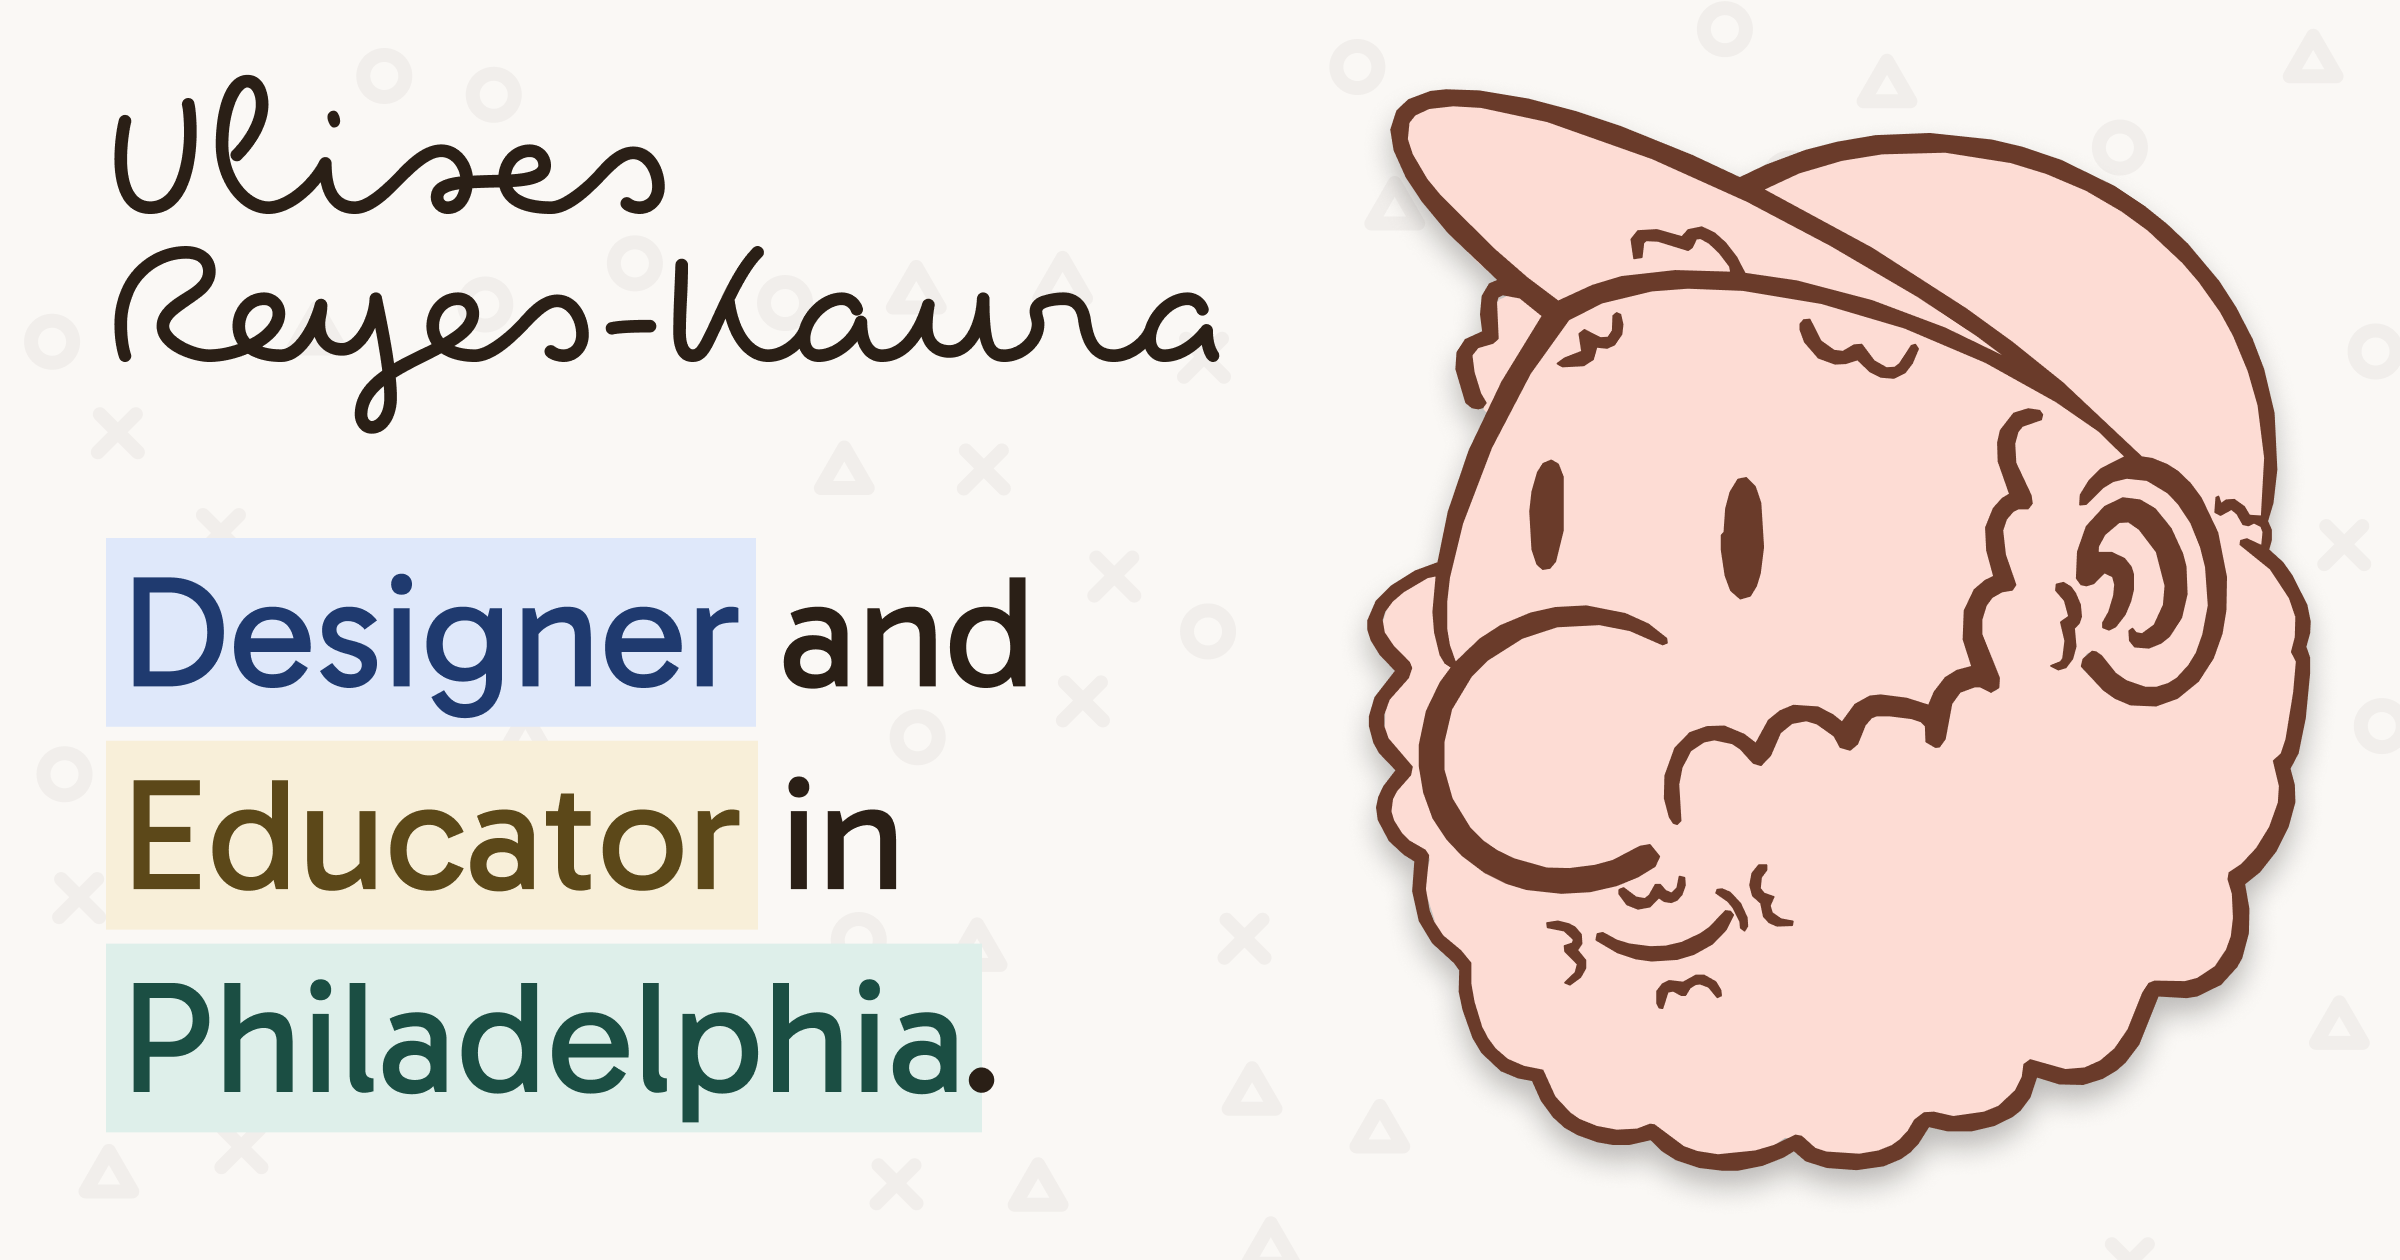
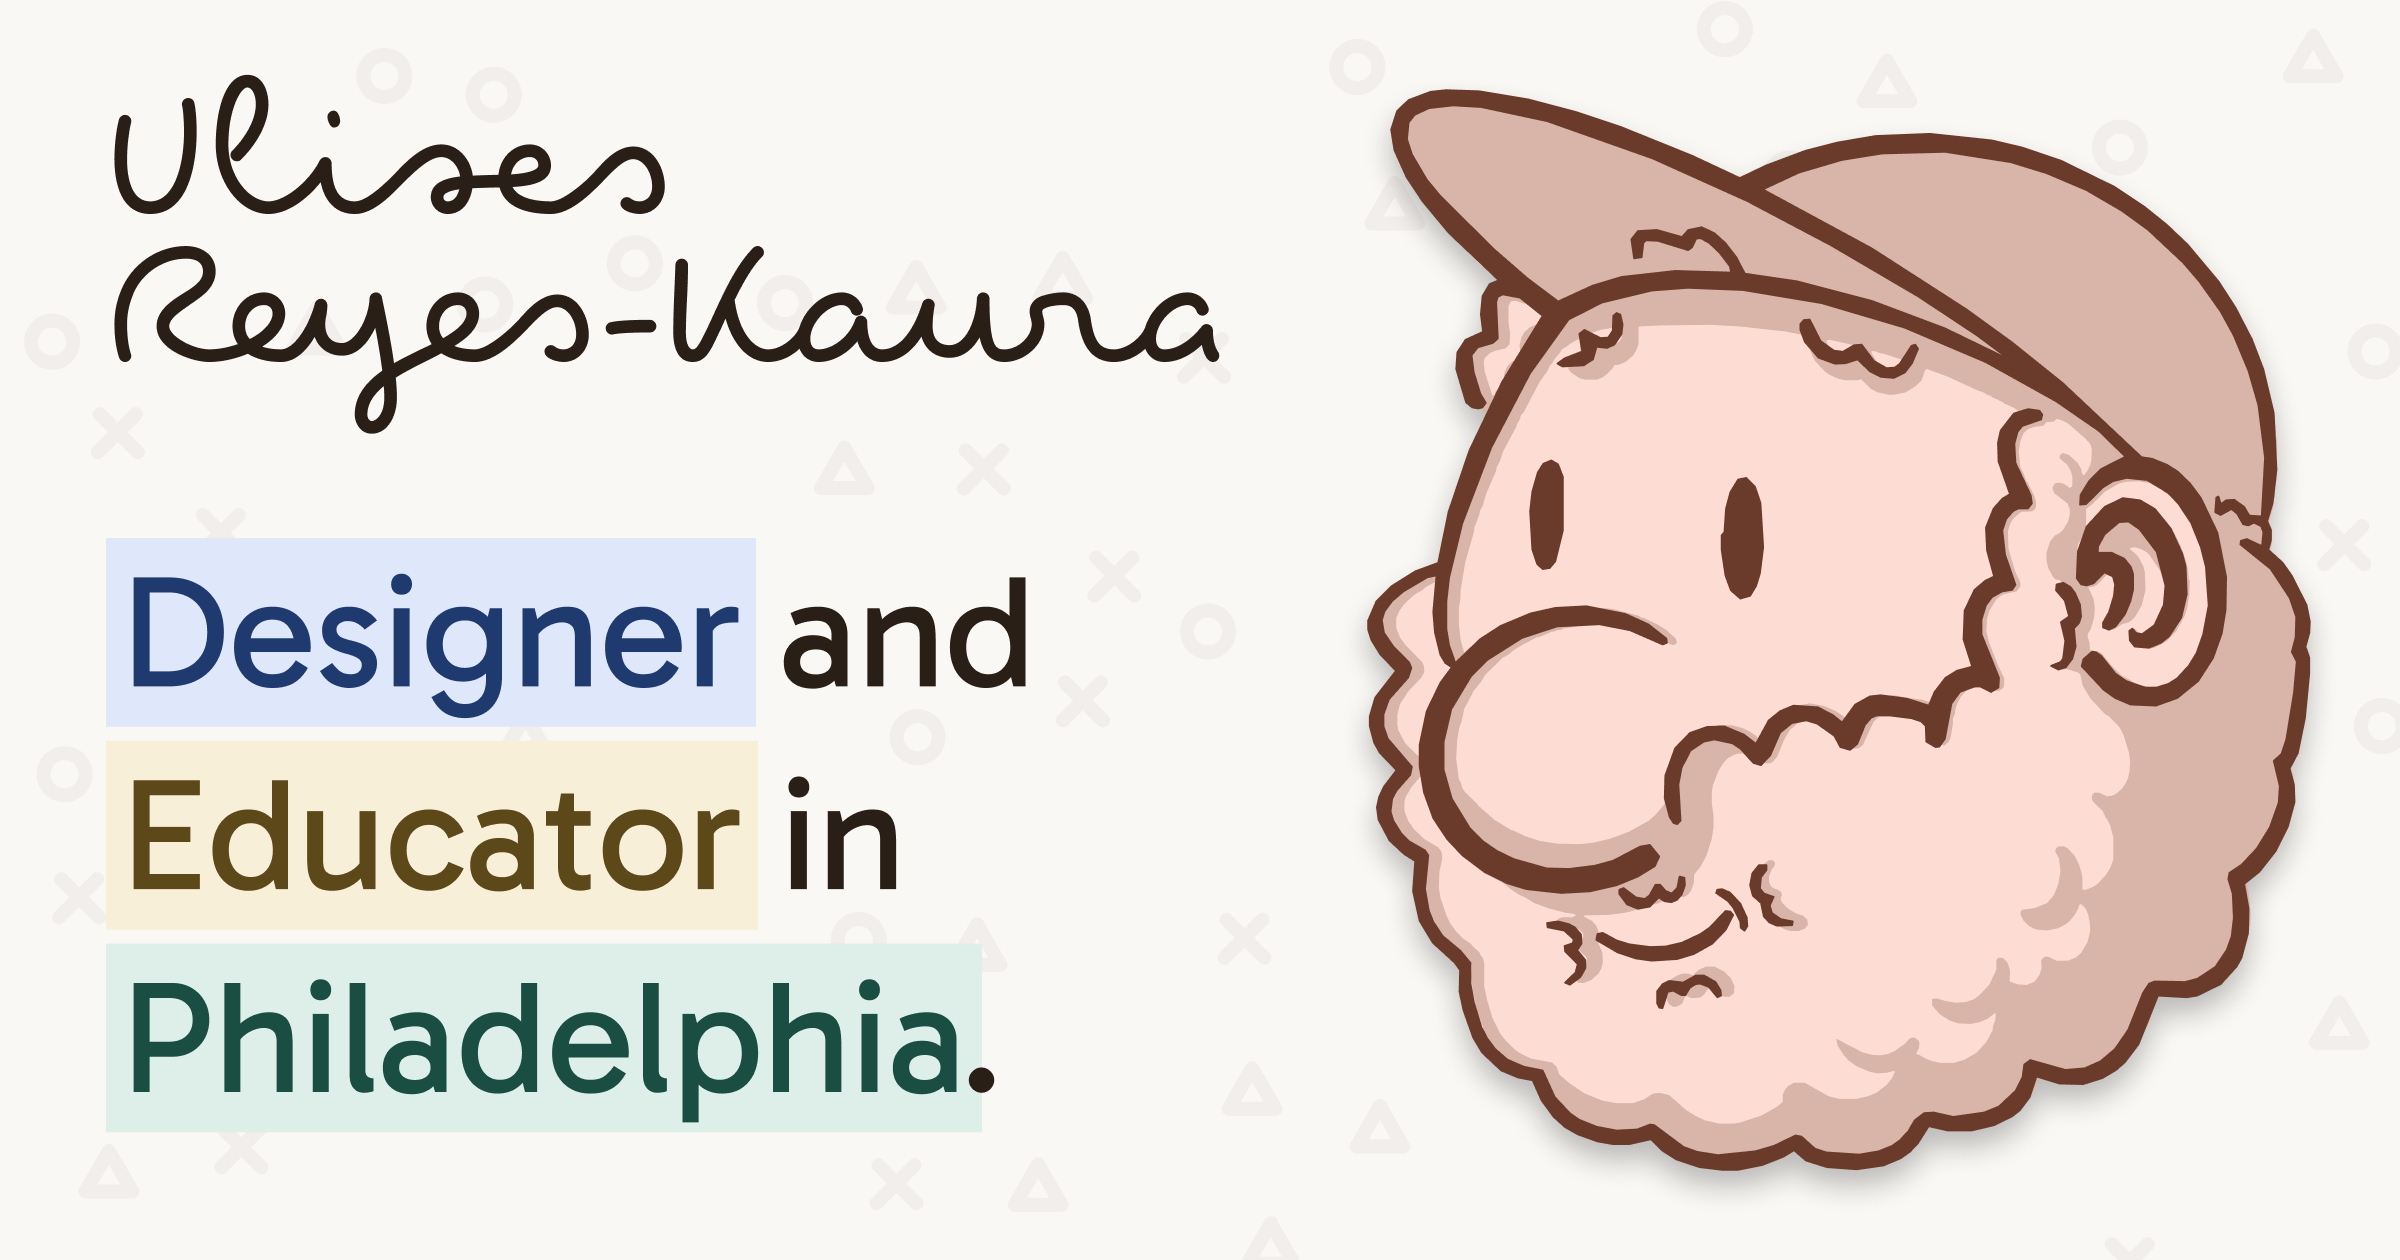
changed hover carousel timing, and updated og-image

diff --git a/src/app/page.tsx b/src/app/page.tsx
@@ -480,12 +480,8 @@ export default function Home() {
         setActiveHoverId(null);
 
         // Rest/pause before highlighting the next link:
-        // Use a longer pause (2.2s to 3.0s) for lob animations to let particles finish their full arcing trajectory.
-        // Use a quick pause (0.55s to 0.95s) for snappy glitch effects.
-        const isLobTrigger = ["link-philadelphia", "link-product-designer", "link-educator"].includes(nextId);
-        const restDuration = isLobTrigger
-          ? 2200 + Math.random() * 800
-          : (1100 + Math.random() * 800) * 0.5;
+        // Use a 2.0s to 3.0s pause to give the page visual breathing room and let animations complete
+        const restDuration = 2000 + Math.random() * 1000;
 
         timeoutId = setTimeout(runShowcase, restDuration);
       }, hoverDuration);
